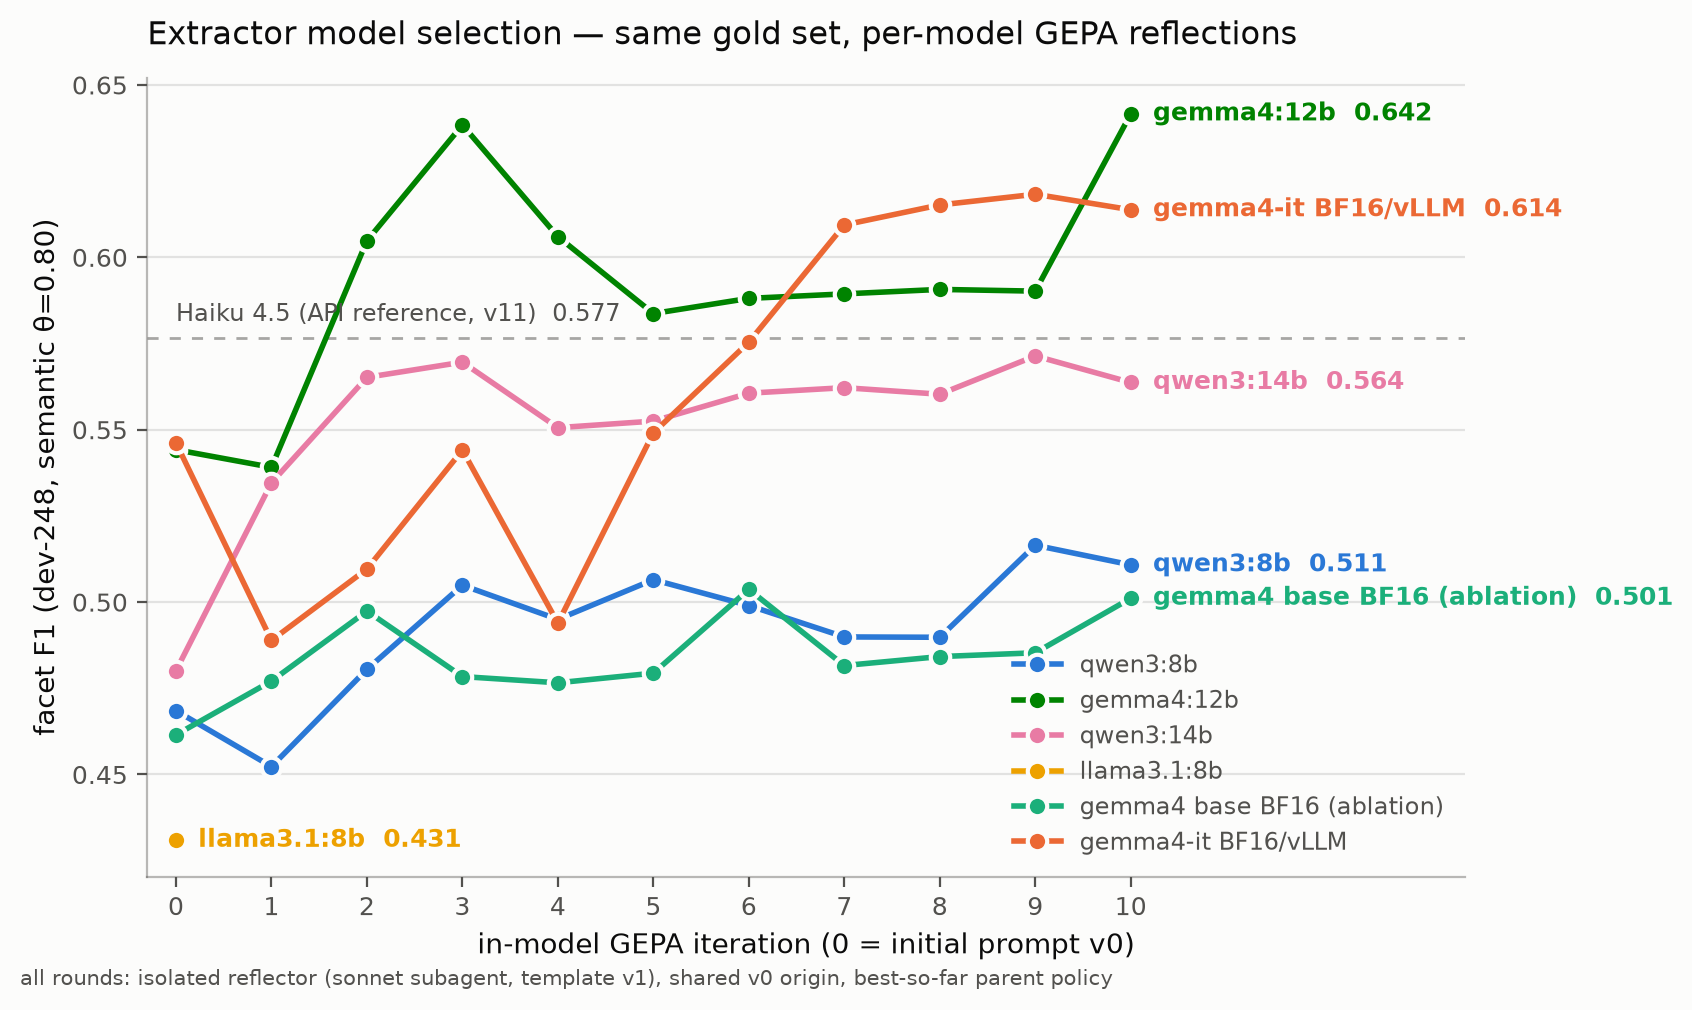
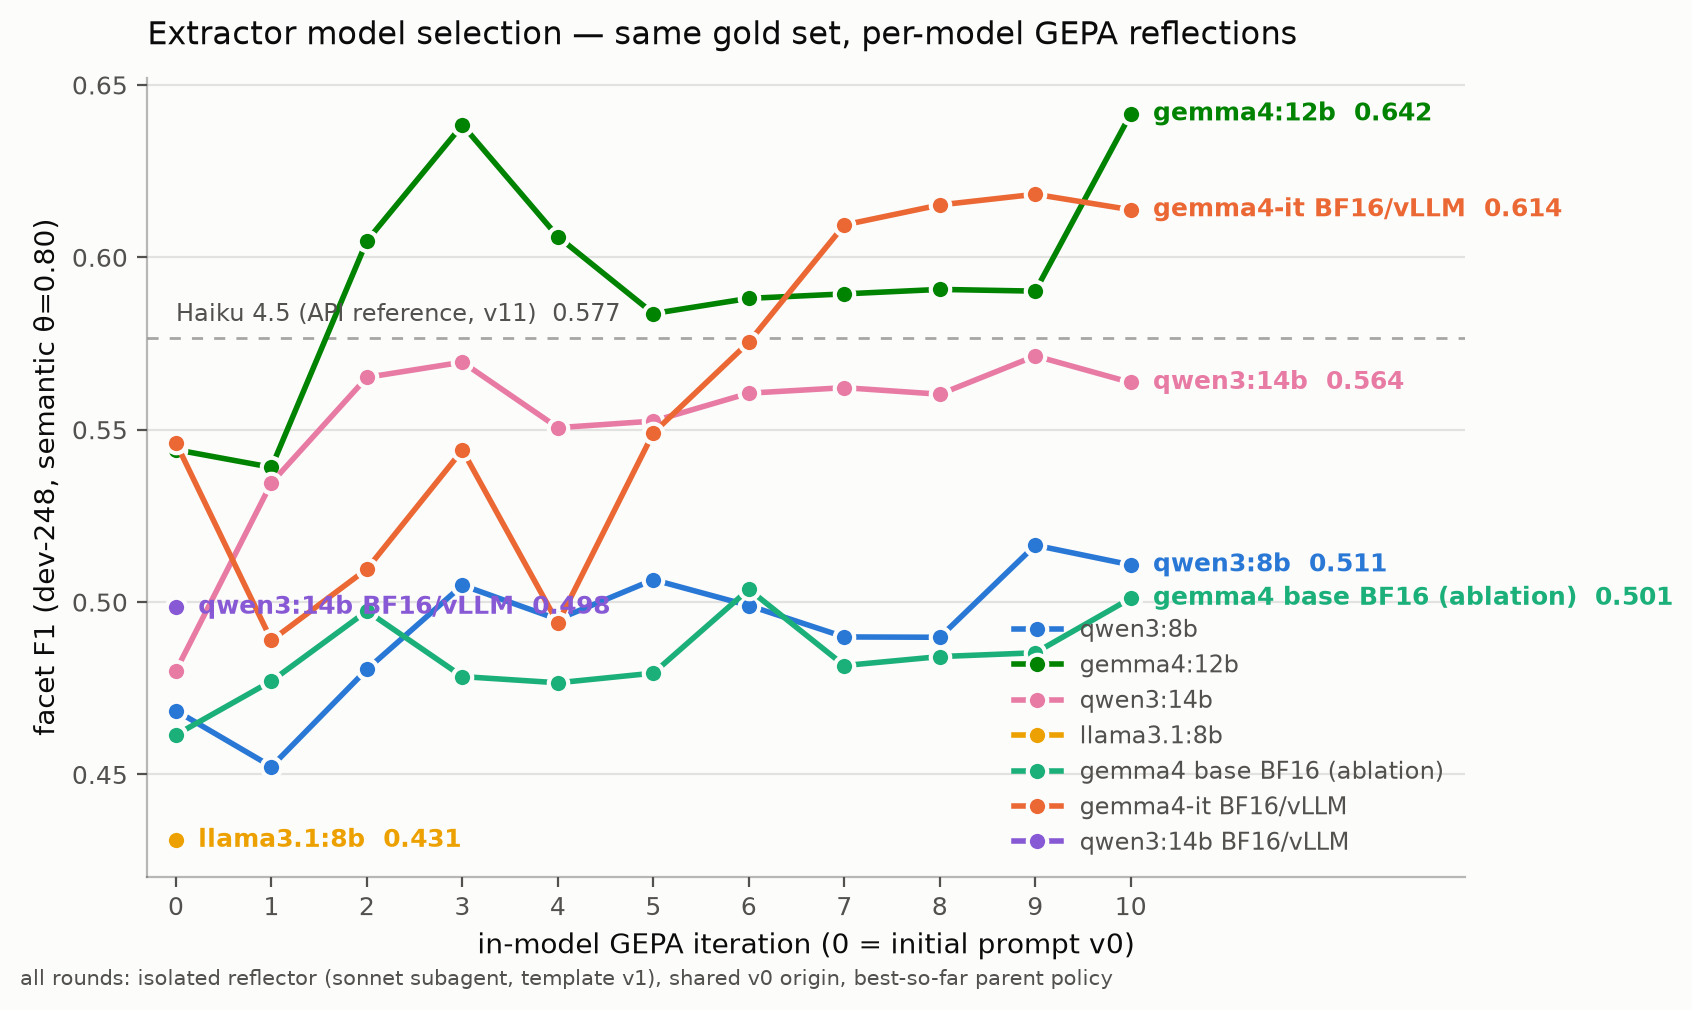
feat: qwen3:14b BF16/vLLM series (qb) — anchor dev F1 0.4985 (+8.1pp vs Q4_K_M local)
PTQ Q4_K_M costs qwen3:14b 8.1pp on the v0 anchor, where gemma's QAT-q4 tied
its BF16 anchor (+0.2pp) — quantization-aware training visibly preserves task
quality where post-training quantization does not.

Changed region(s): [[0.5839, 0.6139, 0.8605, 0.8594], [0.0922, 0.5832, 0.3688, 0.6139]]

diff --git a/scripts/plot_model_comparison.py b/scripts/plot_model_comparison.py
@@ -29,6 +29,7 @@ SERIES = {
     "llama3.1:8b": "#eda100",
     "gemma4 base BF16 (ablation)": "#1baf7a",
     "gemma4-it BF16/vLLM": "#eb6834",
+    "qwen3:14b BF16/vLLM": "#8859d4",
 }
 HAIKU_F1 = 0.5767
 
@@ -51,6 +52,7 @@ series = {
     "llama3.1:8b": [("v2-llama31", by_tag["v2-llama31"])],
     "gemma4 base BF16 (ablation)": ([("v2-gemma4bf16", by_tag["v2-gemma4bf16"])] if "v2-gemma4bf16" in by_tag else []) + rounds("gb"),
     "gemma4-it BF16/vLLM": ([("v2-gemma4itbf16", by_tag["v2-gemma4itbf16"])] if "v2-gemma4itbf16" in by_tag else []) + rounds("gi"),
+    "qwen3:14b BF16/vLLM": ([("v2-qwen14bf16", by_tag["v2-qwen14bf16"])] if "v2-qwen14bf16" in by_tag else []) + rounds("qb"),
 }
 series = {k: v for k, v in series.items() if v}
 

diff --git a/scripts/plot_loop_time.py b/scripts/plot_loop_time.py
@@ -32,6 +32,7 @@ SERIES = {
     "qwen3:14b": ("#e87ba4", "qw"),
     "gemma4 base BF16 (ablation)": ("#1baf7a", "gb"),
     "gemma4-it BF16/vLLM": ("#eb6834", "gi"),
+    "qwen3:14b BF16/vLLM": ("#8859d4", "qb"),
 }
 
 TS = re.compile(r"^(\d{4}-\d{2}-\d{2} \d{2}:\d{2}:\d{2})")